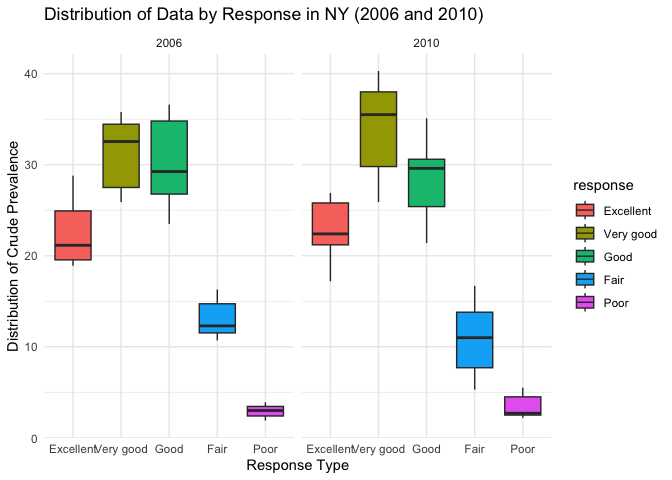
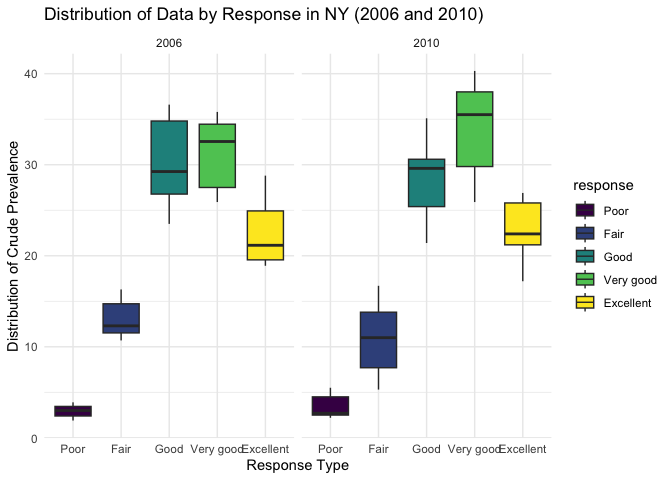
Changes the order for the question 2, made it from "Poor" to "Excellent".

diff --git a/p8105_hw3_xh2636.md b/p8105_hw3_xh2636.md
@@ -171,10 +171,10 @@ view(brfss_smart2010)
 brfss <- brfss_smart2010 %>%
   janitor::clean_names() %>%
   filter(topic == "Overall Health") %>%
-  mutate(response = factor(response, levels = c("Excellent", "Very good", 
-                                                "Good", "Fair", "Poor")))
 # organize responses as a factor taking levels ordered from “Poor” to “Excellent”
-
+  mutate(response = factor(response, levels = c("Poor", "Fair", 
+                                                "Good", "Very good", "Excellent"),
+                           ordered = TRUE))
 view(brfss)
 ```
 
